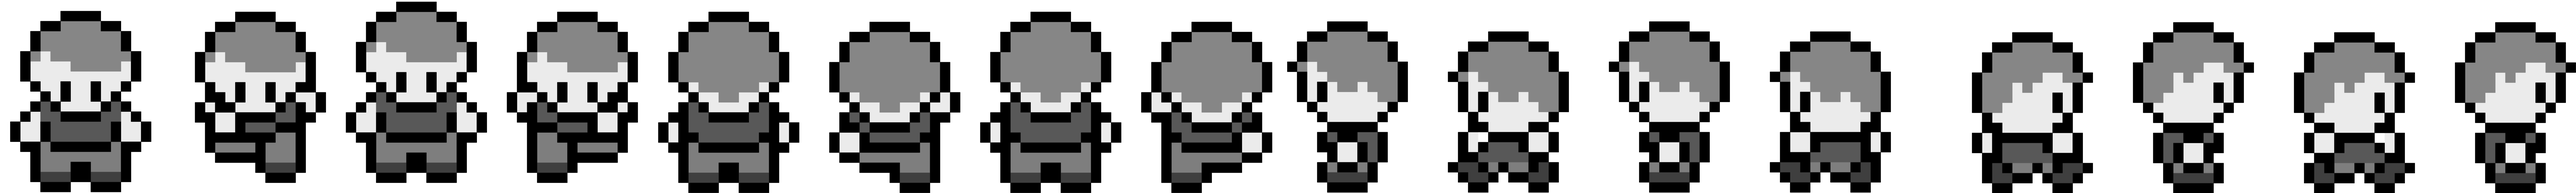
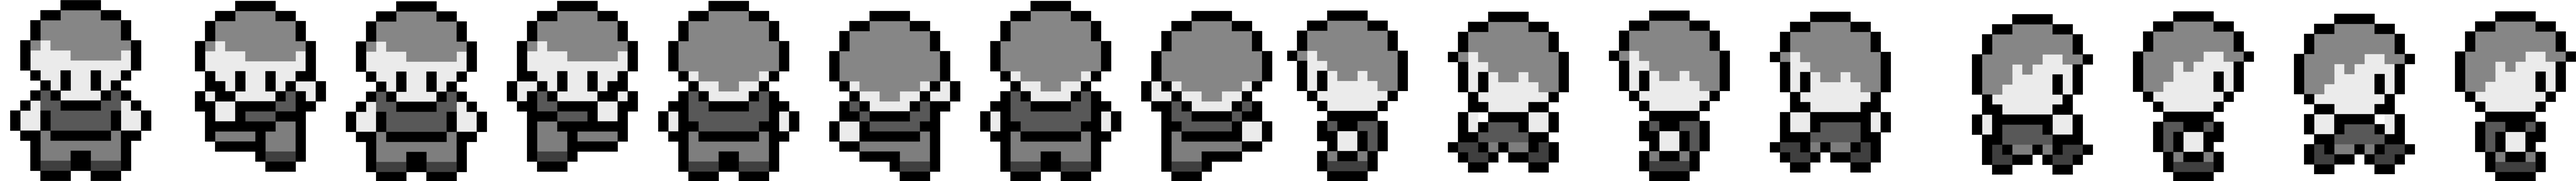
Player smooth movements and grid alignment

diff --git a/src/states/Splash.js b/src/states/Splash.js
@@ -14,7 +14,7 @@ export default class extends Phaser.State {
     // load your assets
     //
     this.load.image('mushroom', 'assets/images/mushroom2.png')
-    this.load.spritesheet('player', 'assets/images/player.png', 400, 480)
+    this.load.spritesheet('player', 'assets/images/player.png', 400, 450)
     this.load.image('block', 'assets/images/block-black.svg')
     this.load.image('background', 'assets/images/background-town.jpg')
     this.load.image('healthbar', 'assets/images/healthbar.png')

diff --git a/src/sprites/Player.js b/src/sprites/Player.js
@@ -4,9 +4,9 @@ import { controlPlayer } from '../controls/Player'
 export default class extends Phaser.Sprite {
   constructor ({ game, x, y, asset, cursor }) {
     super(game, x, y, asset)
-    this.scale.setTo(0.1, 0.1)
+    this.scale.setTo(0.11, 0.11)
     game.physics.arcade.enable(this)
-    this.body.bounce.y = 0.2
+    this.body.bounce.y = 0
     this.body.gravity.y = 800
     this.body.collideWorldBounds = true
     this.cursor = game.input.keyboard.createCursorKeys()
